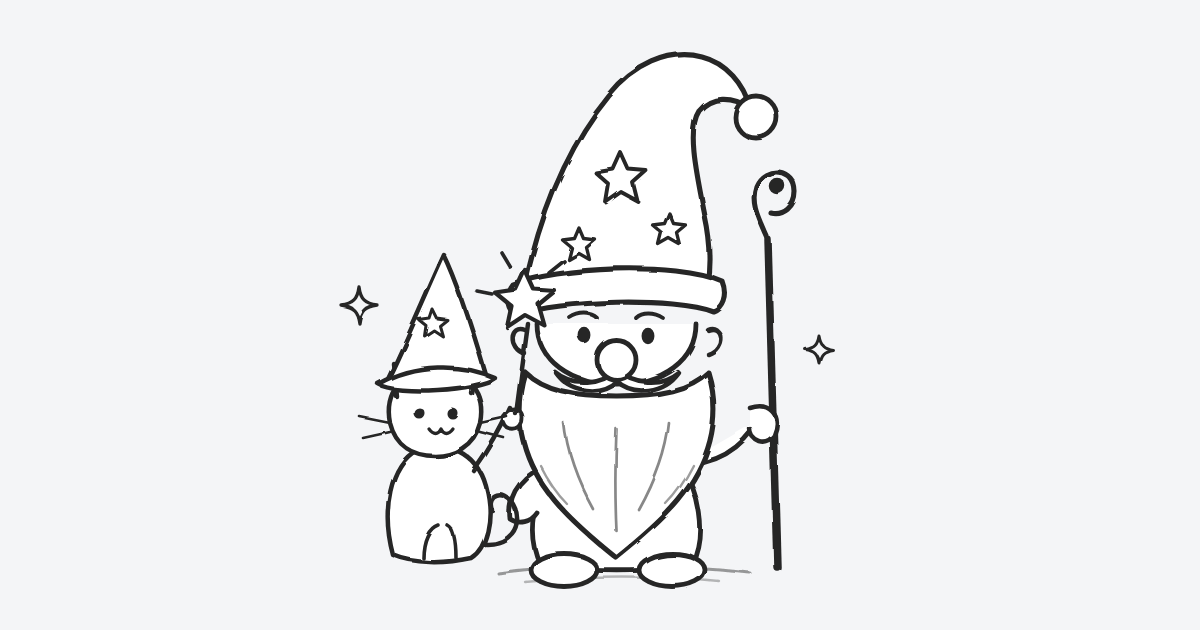
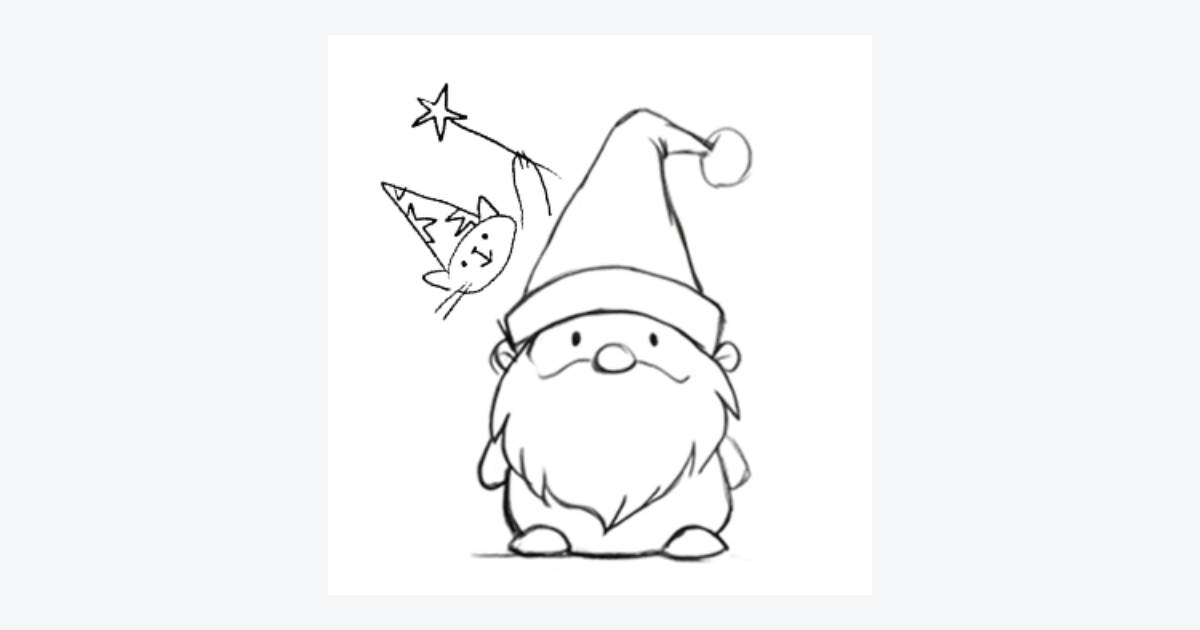
현경이 직접 그린 마법사·마법 고양이 그림으로 교체, 인트로를 시안대로 정리
Claude-Session: https://claude.ai/code/session_01KW9QDMgG9QTNkEAuvkanh6

diff --git a/app.js b/app.js
@@ -60,10 +60,7 @@
   }
 
   function cat(mood) {
-    if (mood === 'thinking') {
-      return '<img class="cat cat-thinking" src="assets/magic-cat.svg" width="180" height="240" alt="마법사 모자를 쓰고 별 지팡이를 든 고양이" />'
-    }
-    return '<img class="cat cat-' + (mood || 'curious') + '" src="assets/wizard-cat.svg" width="400" height="400" alt="별무늬 모자를 쓴 마법사와 지팡이를 든 마법 고양이" />'
+    return '<img class="cat cat-' + (mood || 'curious') + '" src="assets/wizard-cat.png" width="340" height="350" alt="고깔모자를 쓴 마법사와 별 지팡이를 든 마법 고양이" />'
   }
 
   var paw =
@@ -133,9 +130,7 @@
         '<div class="intro-copy"><p>온라인으로 알아보는 나의 일상</p>' +
         '<h1><em>ADHD</em><br />자가진단 테스트</h1>' +
         '<span>일상 속 내 모습을 떠올리며<br />솔직하게 답해 주세요.</span></div>' +
-        '<ul class="intro-meta"><li>5문항</li><li>약 1분</li><li>익명 참여</li></ul>' +
         '<button class="main-button" data-action="start">테스트 시작하기 <b>→</b></button>' +
-        (participants > 0 ? '<p class="intro-count">지금까지 <b>' + participants.toLocaleString('ko-KR') + '명</b>이 응답했어요</p>' : '') +
       '</div>' +
       '</section>'
   }

diff --git a/index.html b/index.html
@@ -11,15 +11,15 @@
   <meta property="og:url" content="https://henney0312.github.io/ad-hd-test-vance/" />
   <meta property="og:image" content="https://henney0312.github.io/ad-hd-test-vance/assets/og-image.png" />
   <link rel="icon" href="favicon.svg" type="image/svg+xml" />
-  <link rel="preload" as="image" href="assets/wizard-cat.svg" />
+  <link rel="preload" as="image" href="assets/wizard-cat.png" />
   <link rel="stylesheet" href="https://cdn.jsdelivr.net/gh/orioncactus/pretendard@v1.3.9/dist/web/variable/pretendardvariable-dynamic-subset.min.css" />
   <link rel="preload" href="assets/fonts/April16th-Promise.woff2" as="font" type="font/woff2" crossorigin />
-  <link rel="stylesheet" href="styles.css?v=20261125h" />
+  <link rel="stylesheet" href="styles.css?v=20261125i" />
 </head>
 <body>
   <div id="root"></div>
   <noscript>이 페이지는 JavaScript가 필요합니다.</noscript>
-  <script src="config.js?v=20261125h"></script>
-  <script src="app.js?v=20261125h"></script>
+  <script src="config.js?v=20261125i"></script>
+  <script src="app.js?v=20261125i"></script>
 </body>
 </html>

diff --git a/styles.css b/styles.css
@@ -446,7 +446,7 @@ button.header-paw:hover { background: #dbe8ff; }
 
 /* 로딩 */
 .loading-cat { width: auto; height: auto; overflow: visible; border-radius: 0; }
-.loading-cat .cat { width: 180px; height: 240px; padding: 10px; animation: magic-bob 1.6s ease-in-out infinite; }
+.loading-cat .cat { width: 200px; height: 200px; padding: 10px; animation: magic-bob 1.6s ease-in-out infinite; }
 .loading h2 { font-size: 26px; line-height: 1.3; letter-spacing: 0; }
 @keyframes magic-bob { 0%, 100% { transform: translateY(0) rotate(-2deg); } 50% { transform: translateY(-8px) rotate(2deg); } }
 
@@ -476,7 +476,7 @@ button.header-paw:hover { background: #dbe8ff; }
   .intro-meta li { font-size: 13px; }
   .intro-side .main-button { margin-top: 36px; width: 340px; max-width: none; min-height: 56px; font-size: 17px; }
   .intro-count { font-size: 14px; }
-  .loading-cat .cat { width: 210px; height: 280px; }
+  .loading-cat .cat { width: 240px; height: 240px; }
   .loading h2 { font-size: 34px; }
   .result-hero .cat { width: 280px; height: 280px; }
   .result-badge { font-size: 52px; }
